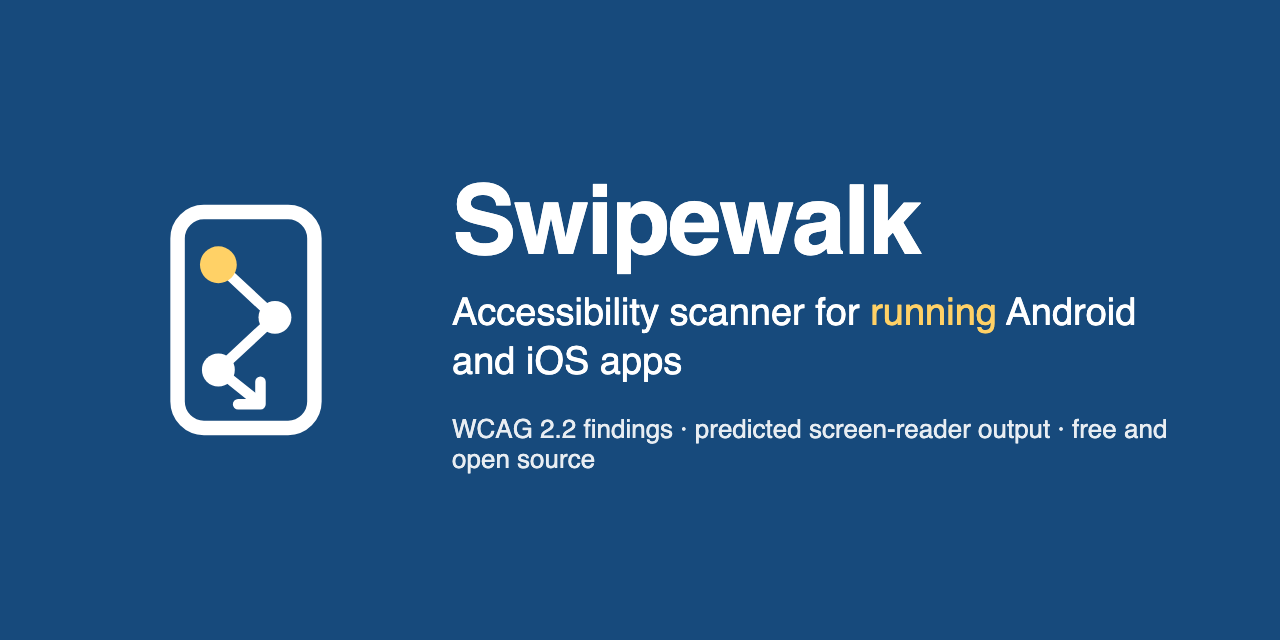
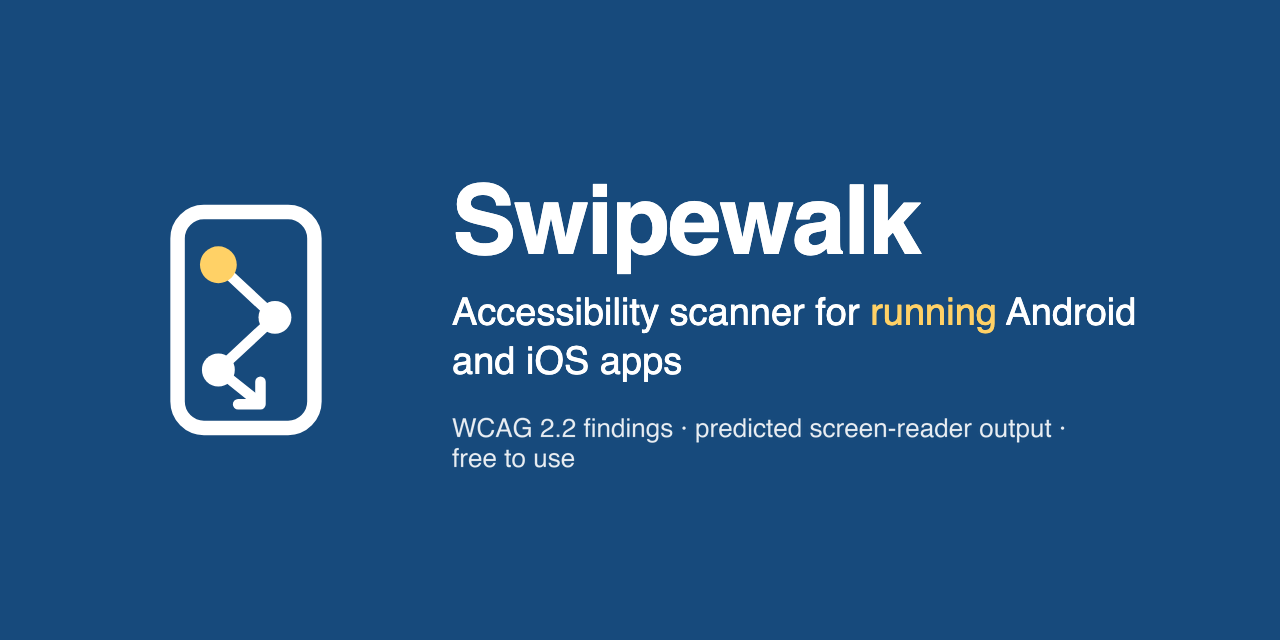
Update the website for the Swipewalk License and the 0.4.2 documentation
Describe the licence terms from 0.4.2, drop wording that called the project open source, and use the new social preview image.

Changed region(s): [[0.3438, 0.6562, 0.9062, 0.75]]

diff --git a/index.html b/index.html
@@ -5,24 +5,25 @@
   <meta name="viewport" content="width=device-width, initial-scale=1">
   <title>Swipewalk – free accessibility scanner for Android and iOS apps</title>
   <meta name="google-site-verification" content="Eon2UT67xRTWg1y9YnDZeDdWS-1f78KDXfDLrlAAeFU" />
-  <meta name="description" content="Free, open-source accessibility scanner for running Android and iOS apps. Maps automated findings to WCAG 2.2; manual testing is still required.">
+  <meta name="description" content="Free accessibility scanner for running Android and iOS apps. Maps automated findings to WCAG 2.2; manual testing is still required.">
   <link rel="canonical" href="https://swipewalk.github.io/">
   <link rel="icon" href="favicon.svg" type="image/svg+xml">
   <link rel="apple-touch-icon" href="apple-touch-icon.png">
   <meta property="og:title" content="Swipewalk">
-  <meta property="og:description" content="Free, open-source accessibility scanner for running Android and iOS apps.">
+  <meta property="og:description" content="Free accessibility scanner for running Android and iOS apps.">
   <meta property="og:url" content="https://swipewalk.github.io/">
   <meta property="og:image" content="https://swipewalk.github.io/social-preview.png">
-  <meta property="og:image:alt" content="Swipewalk logo and the text: Accessibility scanner for running Android and iOS apps. WCAG 2.2 findings, predicted screen-reader output, free and open source.">
+  <meta property="og:image:alt" content="Swipewalk logo and the text: Accessibility scanner for running Android and iOS apps. WCAG 2.2 findings, predicted screen-reader output, free to use.">
   <meta name="twitter:card" content="summary_large_image">
-  <meta name="twitter:image:alt" content="Swipewalk logo and the text: Accessibility scanner for running Android and iOS apps. WCAG 2.2 findings, predicted screen-reader output, free and open source.">
+  <meta name="twitter:image:alt" content="Swipewalk logo and the text: Accessibility scanner for running Android and iOS apps. WCAG 2.2 findings, predicted screen-reader output, free to use.">
   <script type="application/ld+json">
   {
     "@context": "https://schema.org",
     "@type": "SoftwareApplication",
     "name": "Swipewalk",
-    "description": "Free, open-source accessibility scanner for running Android and iOS apps. Maps automated findings to WCAG 2.2; manual testing is still required.",
+    "description": "Free accessibility scanner for running Android and iOS apps. Maps automated findings to WCAG 2.2; manual testing is still required.",
     "applicationCategory": "DeveloperApplication",
+    "license": "https://github.com/swipewalk/swipewalk/blob/main/LICENSE",
     "operatingSystem": "macOS",
     "offers": {
       "@type": "Offer",
@@ -74,7 +75,7 @@
   <header>
     <img src="icon.svg" width="72" height="72" alt="">
     <h1>Swipewalk</h1>
-    <p class="lead">A free, open-source accessibility scanner for <strong>running</strong> Android and iOS apps, with first-class .NET MAUI support.</p>
+    <p class="lead">A free accessibility scanner for <strong>running</strong> Android and iOS apps, with first-class .NET MAUI support.</p>
   </header>
 
   <main id="main">
@@ -104,11 +105,11 @@ swipewalk scan --platform android --large-text --out report</code></pre>
     <h2>What it does</h2>
     <ul>
       <li>Scans one screen, or scans each new screen while you use the app; it can also rescan each at a large text size (Android and iOS, including physical phones, where it changes the phone's text size and restores it afterwards -- on an iPhone through the Settings app; use a test device). Screens that weren't scanned are listed as a manual task.</li>
-      <li>Rescans a screen in the device's other dark/light appearance and other orientation (<code>scan</code> only for now), including on a physical iPhone where its own settings allow, so a contrast failure or layout problem that only shows up in one theme or one orientation isn't missed. A further opt-in check (also <code>scan</code> only for now) takes a few more captures a few seconds apart and flags content that changed on its own.</li>
+      <li>Rescans a screen in the device's other dark/light appearance and other orientation (<code>scan</code> only for now), including on a physical iPhone where its own settings allow, so a contrast failure or layout problem that only shows up in one theme or one orientation isn't missed. A further opt-in check (also <code>scan</code> only for now) takes a few more captures a few seconds apart and flags content that changed on its own. The Mac app offers these under More checks on New scan.</li>
       <li>Measures text contrast from screenshot pixels, not from source code.</li>
       <li>Keeps WCAG issues apart from platform guidelines (Apple's 44&times;44 pt default and 28&times;28 pt stated minimum, Android's 48&times;48 dp touch targets).</li>
       <li>Labels findings with the standards they are relevant to: ADA Title II, Section 508, EN 301 549, UK public sector regulations, plus each standard's own clauses beyond WCAG, and the US states and other countries Swipewalk has mapped; each issue names the first few it is relevant to and how many more. This is not legal advice.</li>
-      <li>Compares runs: new, still found, and no longer found.</li>
+      <li>Compares runs: new, still found, and no longer found. <code>swipewalk compare</code> and the Mac app can compare any two runs.</li>
       <li>Includes Apple's own accessibility audit on iOS and Google's Accessibility Test Framework on Android. On Android debug builds, an opt-in <code>--web-audit</code> adds a deeper audit of a WebView's own page with axe-core; on the Android emulator, web content inside an app is scanned either way (verified there only; on a physical phone it isn't scanned by default).</li>
       <li>On Android, can also drive TalkBack itself over a screen's elements (opt-in with the command-line tool's <code>--screen-reader</code>; on by default in the Mac app) and report differences from the predicted transcript for you to check, running locally with no cloud service. On iOS, can read what Xcode's Accessibility Inspector reports for each element instead of turning VoiceOver on.</li>
       <li>On Android, can record a live session while you use TalkBack yourself, for as long as you like: which controls TalkBack reached, what it said, and your own notes, as evidence to review by hand (never a pass or fail). On a physical iPhone, a first-look option reads VoiceOver's on-screen captions while you swipe through a screen yourself (tried on one iPhone SE, with a sample app, in English).</li>
@@ -128,7 +129,7 @@ swipewalk scan --platform android --large-text --out report</code></pre>
 
     <h2>Learn more</h2>
     <ul>
-      <li><a href="https://github.com/swipewalk/swipewalk">Source code and documentation on GitHub</a></li>
+      <li><a href="https://github.com/swipewalk/swipewalk">Documentation, downloads and issue tracker on GitHub</a></li>
       <li><a href="https://github.com/swipewalk/swipewalk/blob/main/docs/user-guide.md">User guide: how to scan an app, read a report and check what automation cannot</a></li>
       <li><a href="https://github.com/swipewalk/swipewalk/blob/main/docs/case-study.md">Case study: what it finds in a sample app and in Microsoft's .NET MAUI samples, and what it misses</a></li>
       <li><a href="https://github.com/swipewalk/swipewalk/blob/main/docs/limitations.md">Known limitations</a></li>
@@ -137,7 +138,7 @@ swipewalk scan --platform android --large-text --out report</code></pre>
   </main>
 
   <footer>
-    Swipewalk is free software under the Apache License 2.0. It runs on your computer, makes no network requests of its own and has no telemetry; platform tools it runs (such as xcodebuild when signing for an iPhone) may contact their vendors.
+    Swipewalk is free to use under the <a href="https://github.com/swipewalk/swipewalk/blob/main/LICENSE">Swipewalk License</a>. Its source code is not public. Versions 0.1.0 to 0.4.1 were released under the Apache License 2.0, and anyone who has a copy of those versions keeps the rights that licence gave them. It runs on your computer, makes no network requests of its own and has no telemetry; platform tools it runs (such as xcodebuild when signing for an iPhone) may contact their vendors.
   </footer>
 </body>
 </html>
